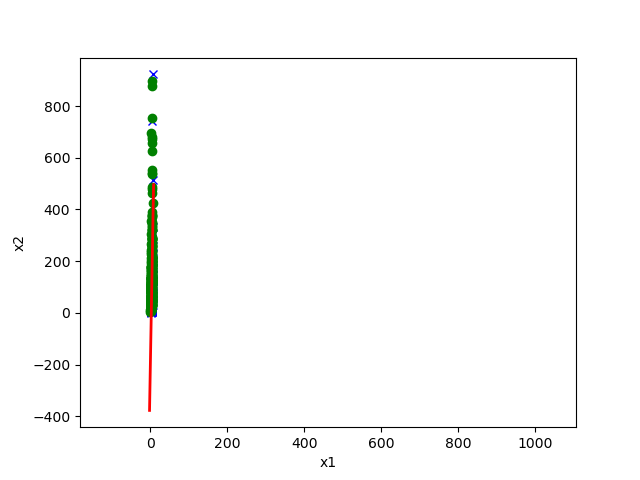
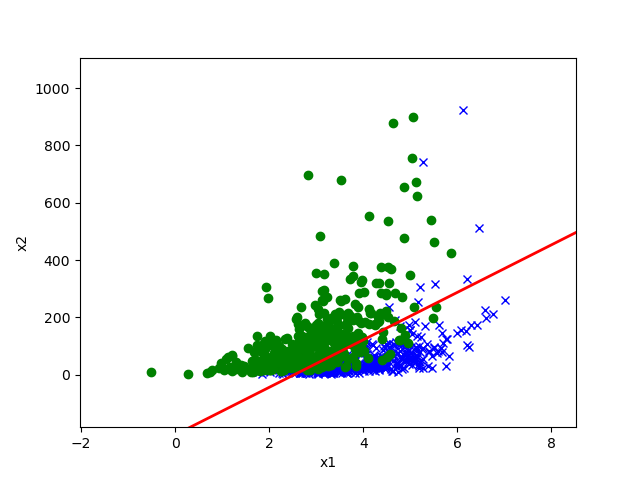
解决了PS01图像绘制问题

diff --git a/PS01/model/util.py b/PS01/model/util.py
@@ -74,7 +74,7 @@ def plot(x, y, theta, save_path, correction=1.0):
     x2 = -(theta[0] / theta[2] * correction + theta[1] / theta[2] * x1)
     plt.plot(x1, x2, c='red', linewidth=2)
     plt.xlim(x[:, -2].min() - margin1, x[:, -2].max() + margin1)
-    plt.xlim(x[:, -1].min() - margin2, x[:, -1].max() + margin2)
+    plt.ylim(x[:, -1].min() - margin2, x[:, -1].max() + margin2)
 
     # Add labels and save to disk
     plt.xlabel('x1')
